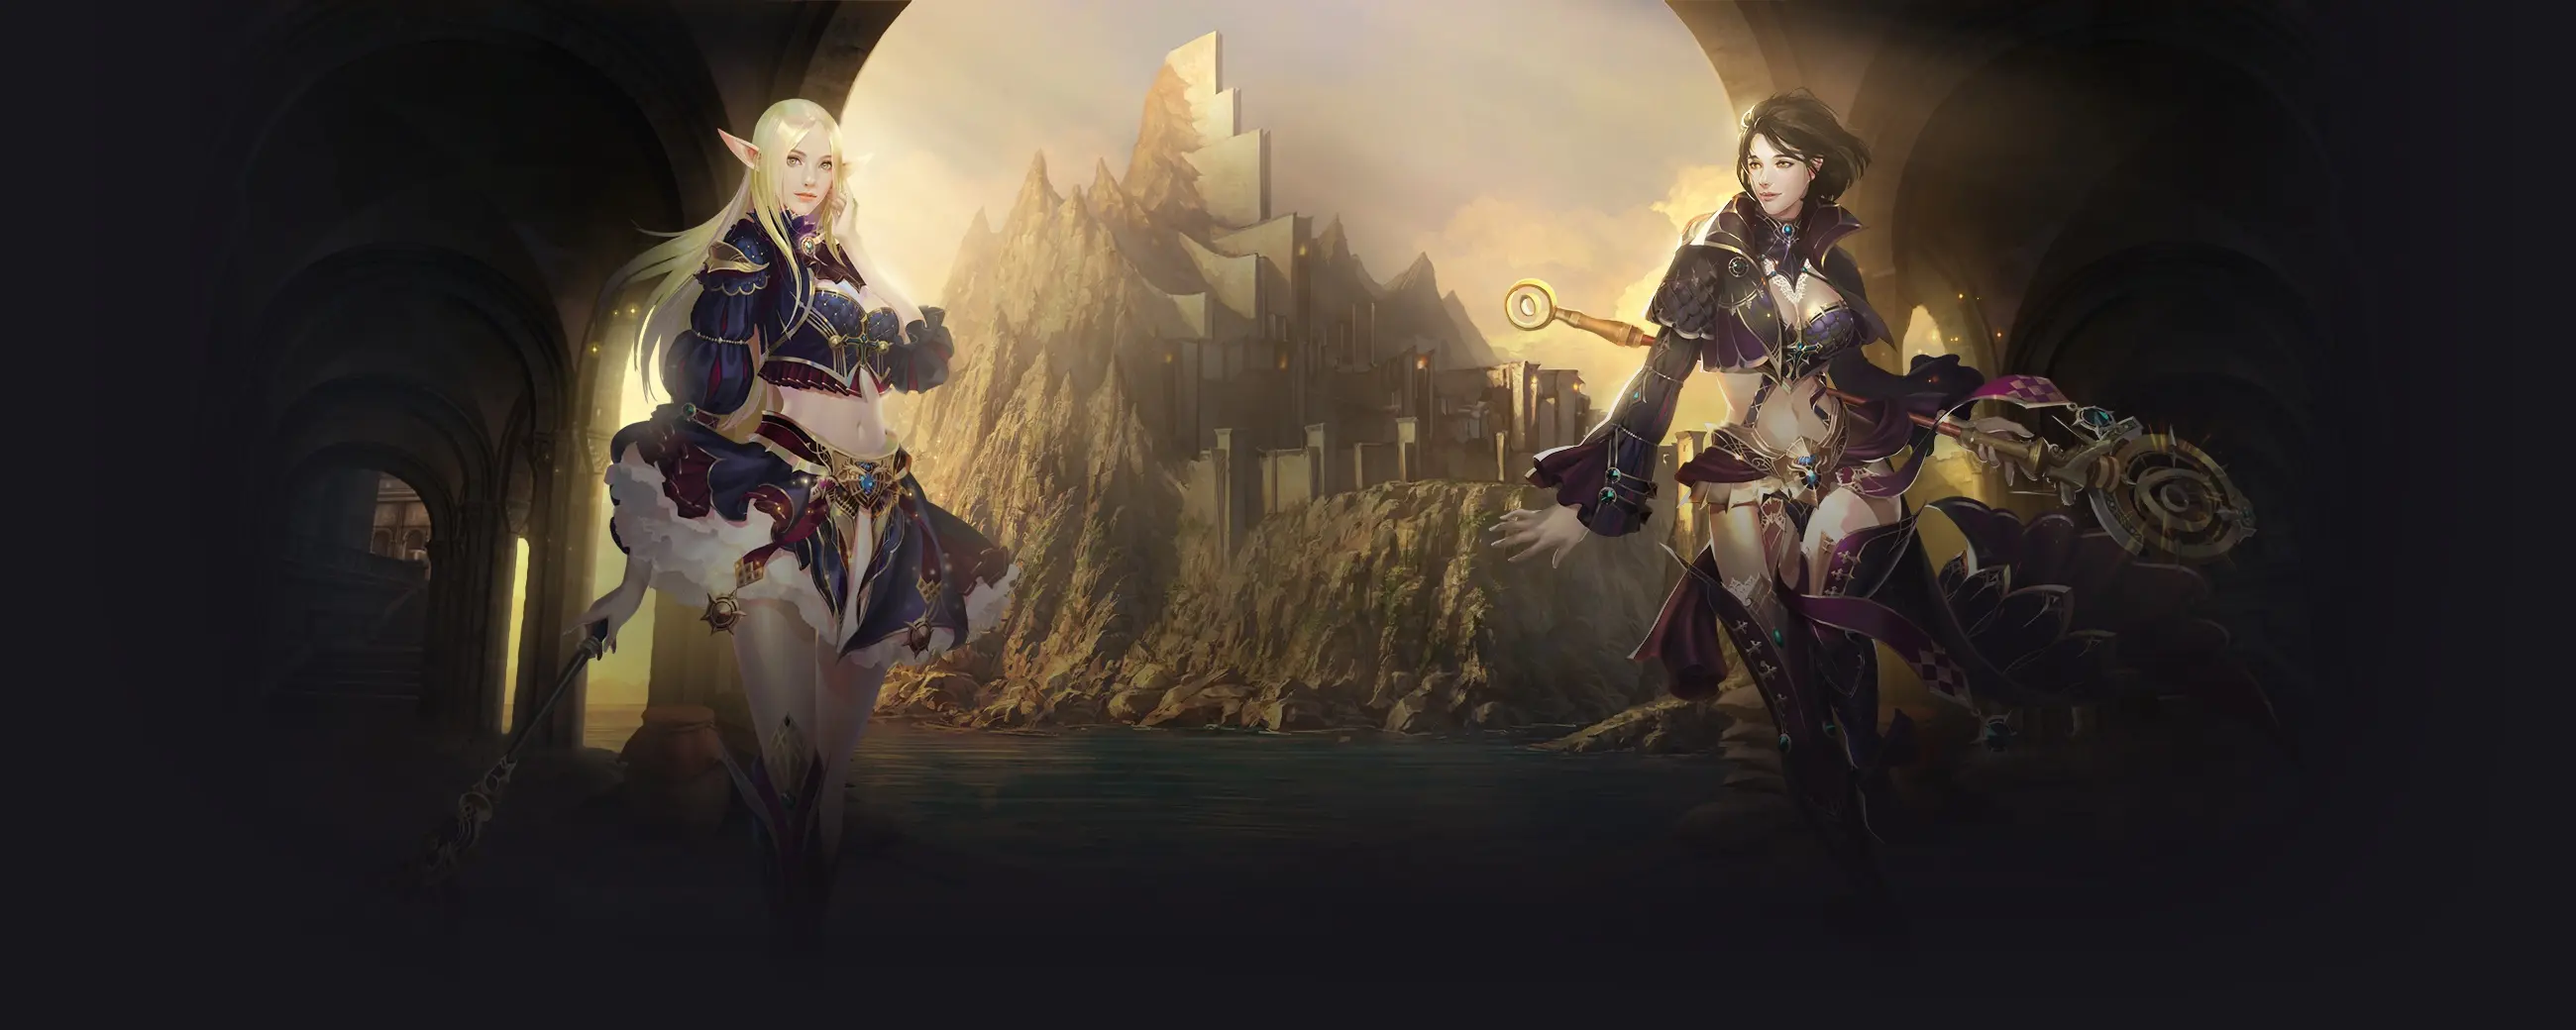
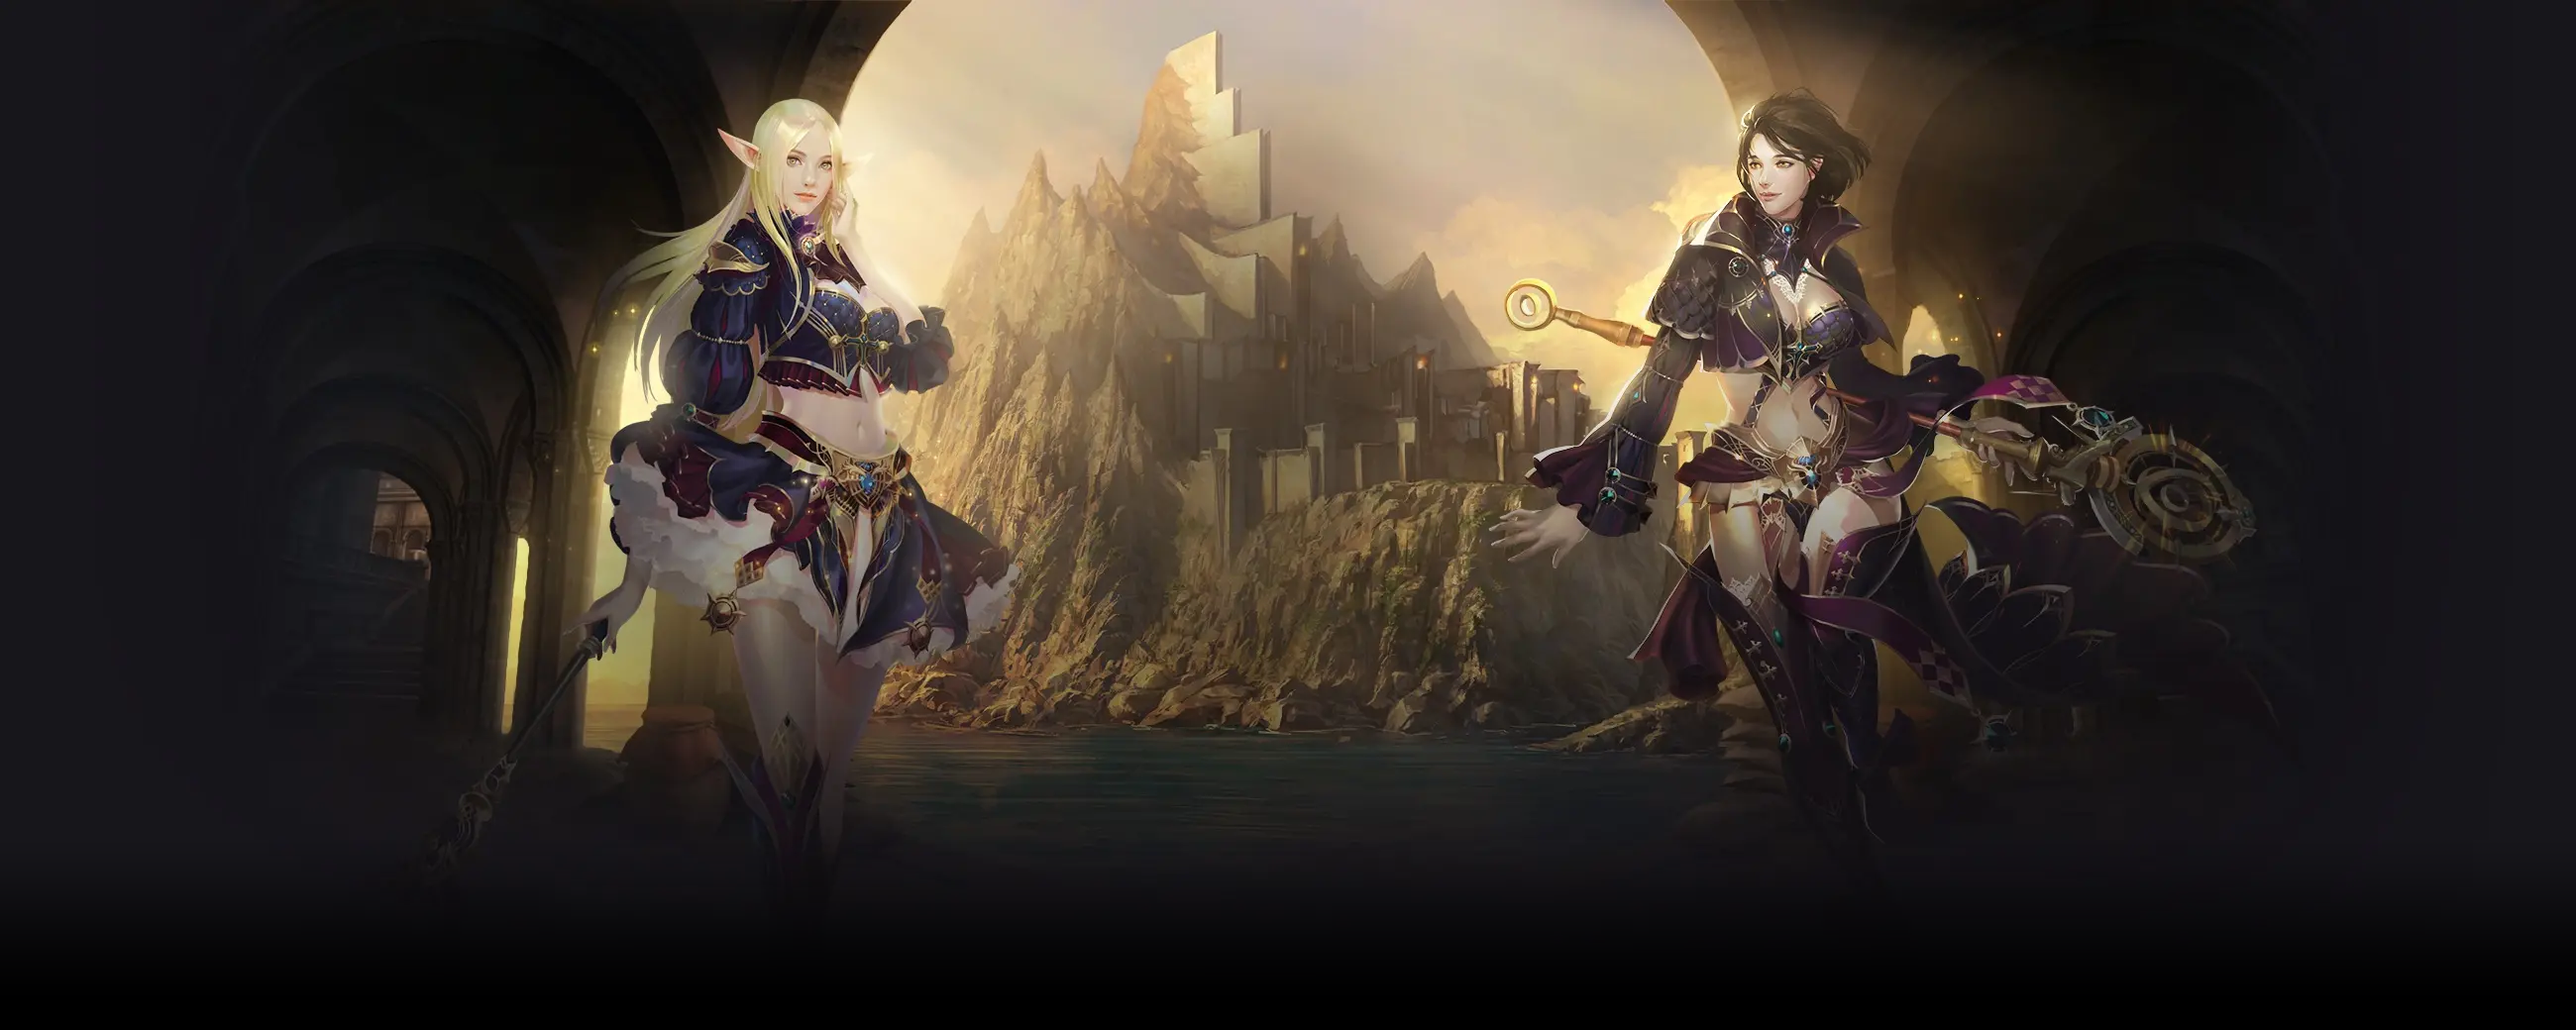
alteracao do header

Changed region(s): [[0.0, 0.9538, 1.0, 1.0]]

diff --git a/src/pages/Home/index.js b/src/pages/Home/index.js
@@ -46,9 +46,9 @@ export default function Home(){
           </div>
           <div className="menu">
               <li><Link to="/"><FiInstagram size={20} color="#fff" className="optn-menu-icon-rigth"/></Link></li>
-              <li><Link to="/"><FiFacebook size={20} color="#fff"/></Link></li>
-              <li><Link to="/"><FiGithub size={20} color="#fff"/></Link></li>
-              <li><Link to="/"><FiLink size={20} color="#fff"/></Link></li>
+              <li><Link to="/"><FiFacebook size={20} color="#fff" className="optn-menu-icon-rigth"/></Link></li>
+              <li><Link to="/"><FiGithub size={20} color="#fff" className="optn-menu-icon-rigth"/></Link></li>
+              <li><Link to="/"><FiLink size={20} color="#fff" className="optn-menu-icon-rigth"/></Link></li>
           </div>
           <div className="imgbottom">
             <img src={ImgDivMenu} alt=""/>

diff --git a/src/pages/Home/style.css b/src/pages/Home/style.css
@@ -4,10 +4,10 @@
 	min-height: 745px;
     background-size: 100% 0 auto;
     background-image: url('../../assets/images/back.png');
-
+	
 	background-position: top;
 	width: 100%;
-    height: 900px;
+    height: 980px;
 	background-repeat: no-repeat;
 	display: flex;
 	justify-content: center;
@@ -135,7 +135,7 @@
 }
 
 .optn-menu-icon-rigth:hover{
-	background: rgba(255,255,255,0.5);
+	background: rgba(255,255,255,0.6);
 	box-shadow: 5px 10px white;
 
 	border-radius: 5px;

diff --git a/src/components/conteudo/style.css b/src/components/conteudo/style.css
@@ -6,14 +6,15 @@
 }
 
 .separator{
-    background-image: url('../../assets/images/separador1.png');
-    background-color:black;
+
+
     background-position: center;
     background-repeat: no-repeat;
-    background-size: 80%;
+    background-size: 80% auto;
+    transform: rotate(180deg);
     padding: 0;
     margin: 0;
 
-    height: 30px;
+    height:30px;
     width: 100%;
 }

diff --git a/src/components/Header/style.css b/src/components/Header/style.css
@@ -2,13 +2,18 @@ header{
   display: flex;
   align-items: center;
   flex-wrap: wrap;
-  background-color: black;
+  width: 100%;
+  background: hsla(0,0%,96.9%,.15);
+  position: fixed;
+
+
 }
 
 .container-header{
   display: flex;
   align-items: center;
   flex-wrap: wrap;
+  
 }
 
 .logo-img img{

diff --git a/src/components/conteudo/index.js b/src/components/conteudo/index.js
@@ -1,6 +1,5 @@
 import React from 'react';
 
-
 import './style.css';
 
 export default function Conteudo(){
